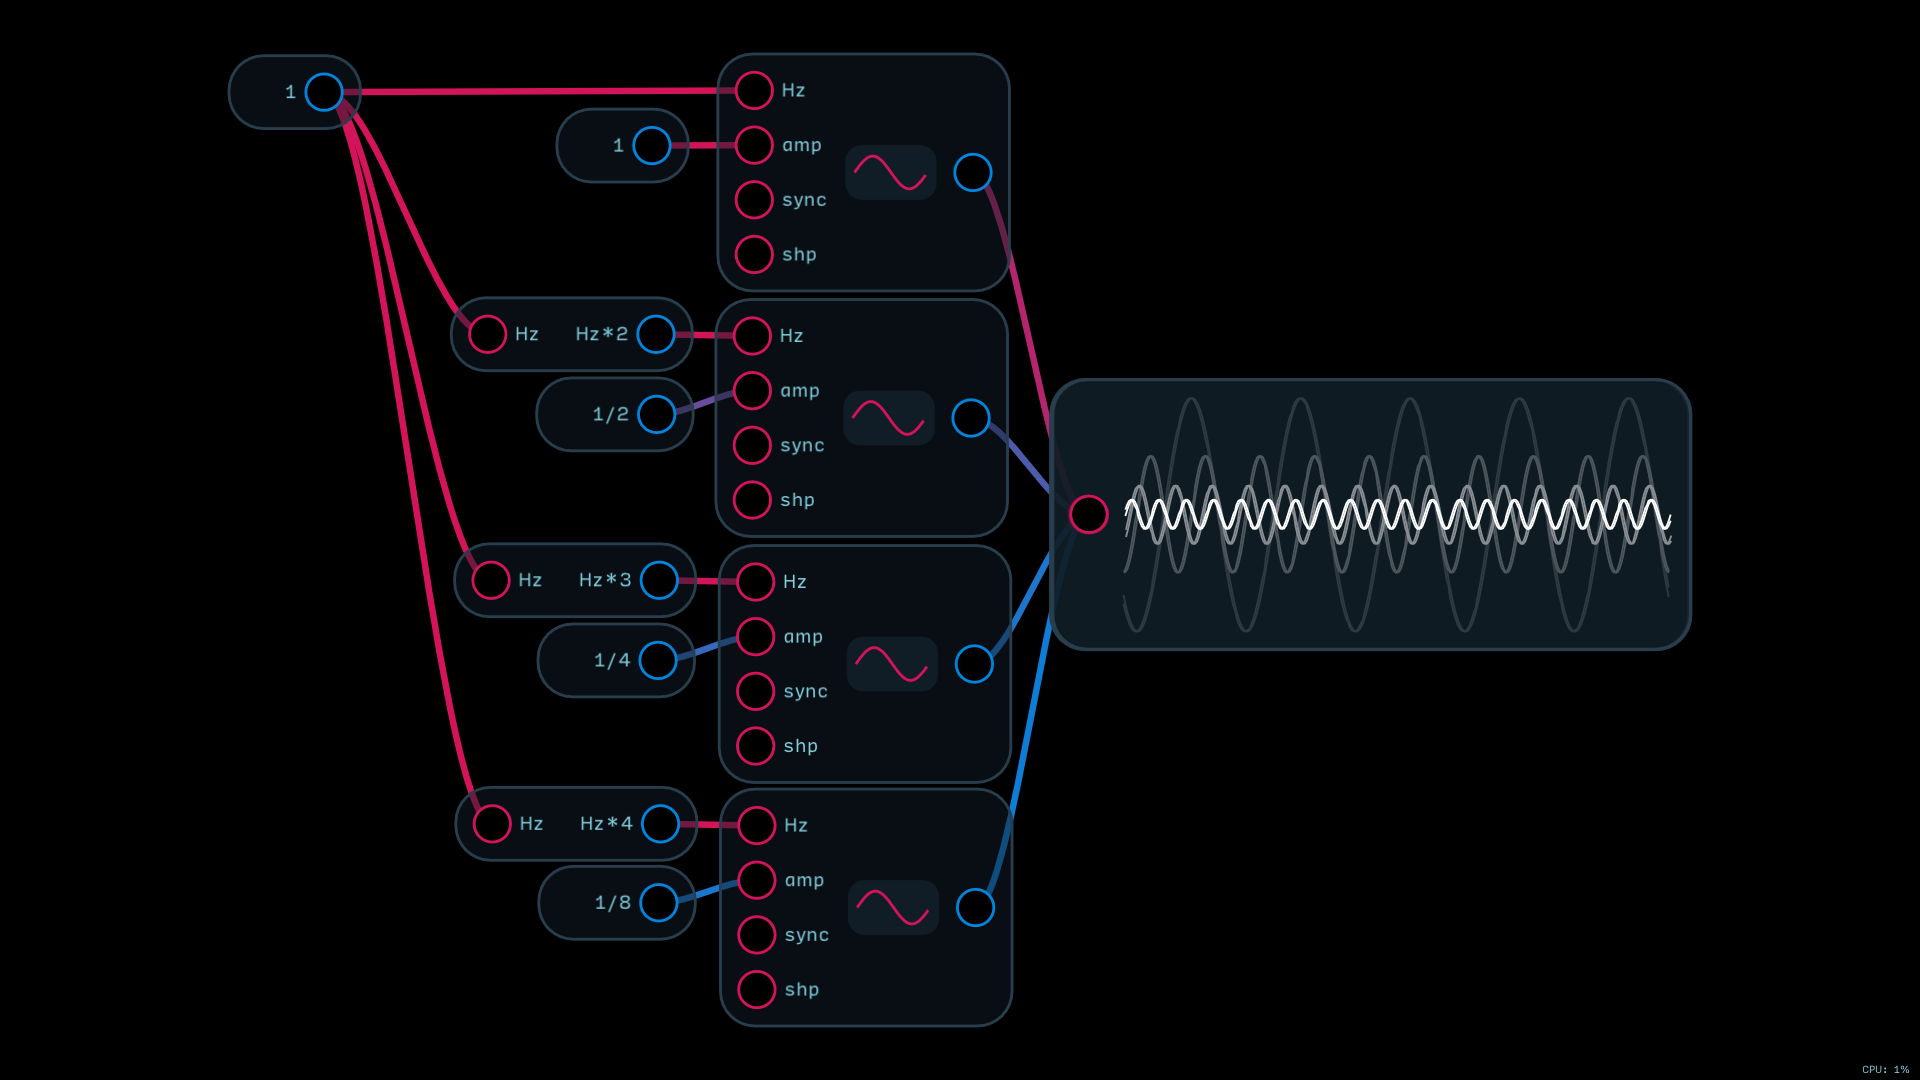
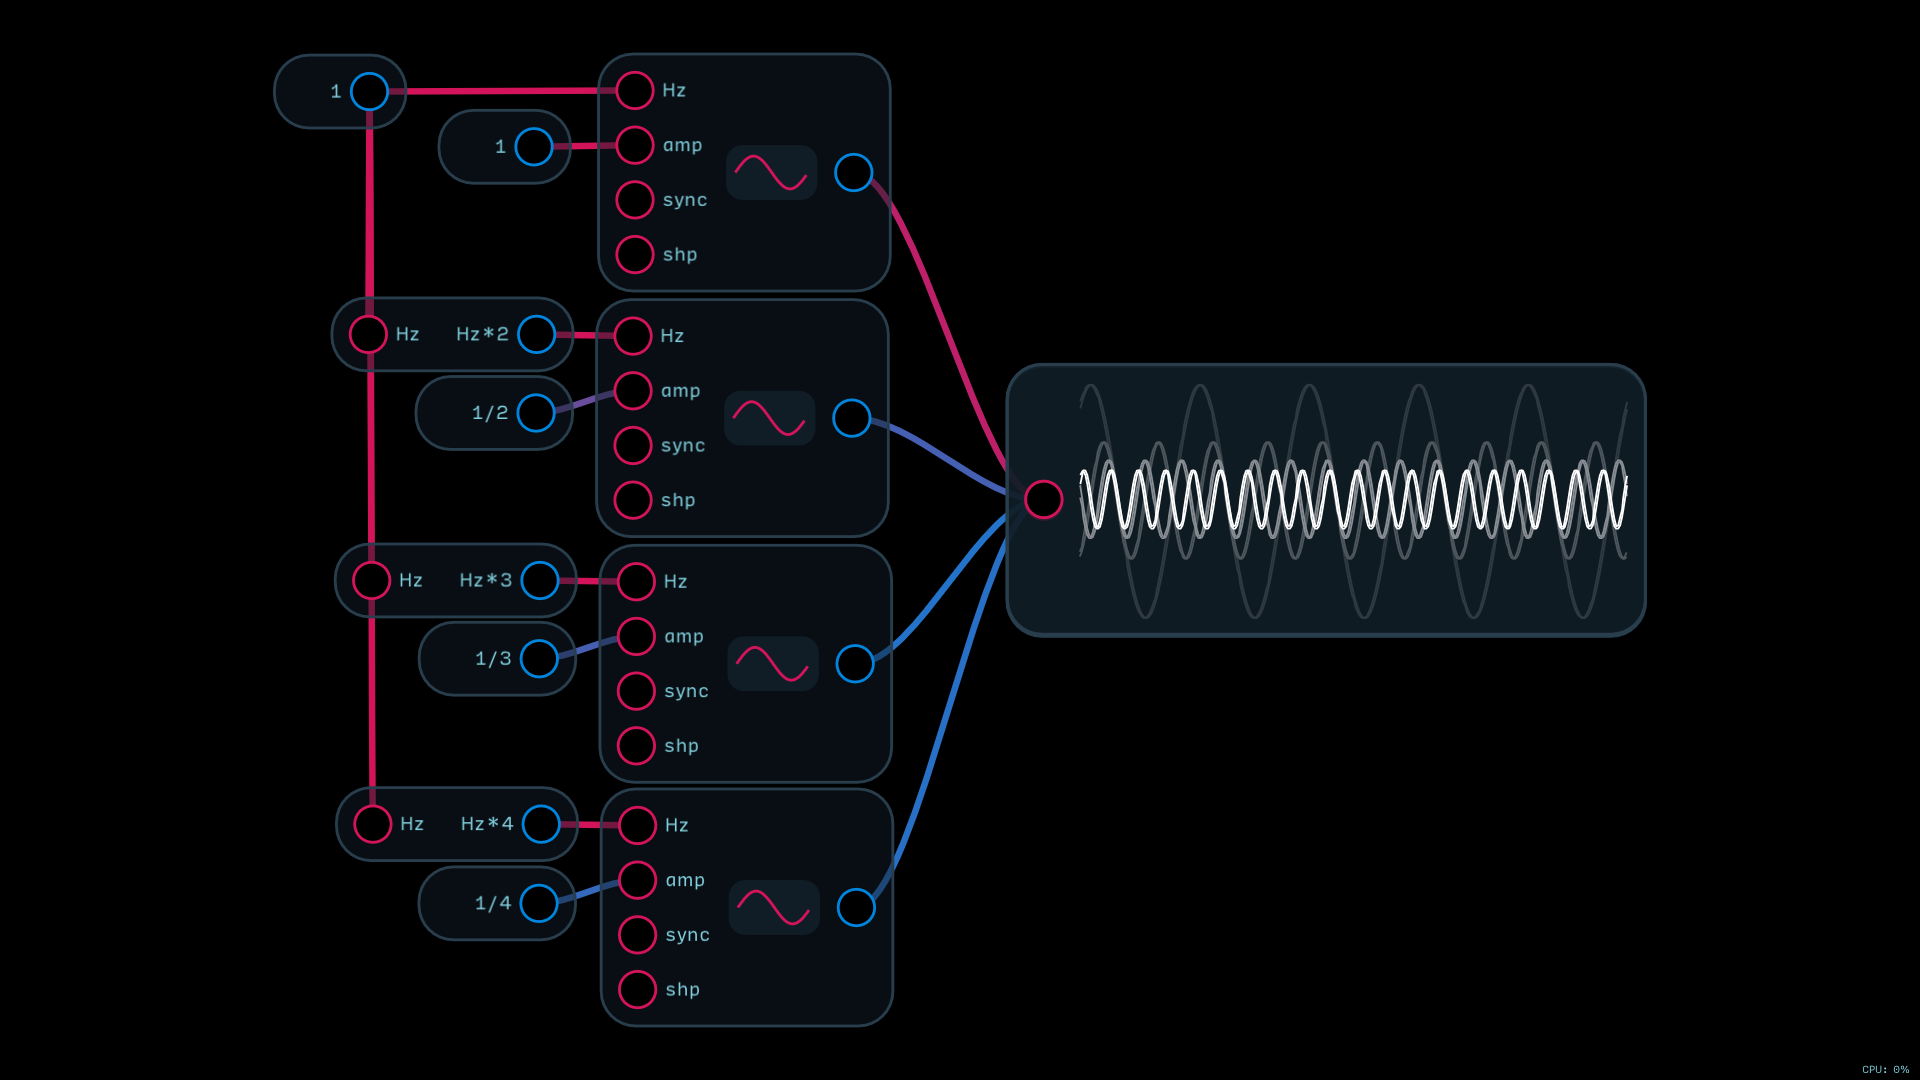
Edited Osc section more - added stuff on harmonics

diff --git a/nodes.md b/nodes.md
@@ -217,14 +217,23 @@ If we take as our base a note that vibrates at 440Hz, then its second harmonic w
 
 A sine only has one harmonic (the 1st or fundamental). Saw waves contain all harmonics, while triangle and square waves have only odd-order harmonics (3rd, 5th, 7th, ...etc.).
 
+The ratio of the amplitude of each harmonic is 1/N where N = the harmonic number. This means the amplitude of the 1st harmonic is 1/1; the 2nd is 1/2; the 3rd is 1/3; the 4th is 1/4; ...etc. (see below).
+
+![Node](img/nodes/OSC/Osc-Integral-Harmonics.png)  
+
 Download the patch pictured below from the Audulus Forum to see and listen to the first six harmonics of a saw wave.
 
 ![Node](img/nodes/OSC/Osc-Saw-Harmonics.png)  
 
+Adding sine wave harmonics together like this is called additive synthesis. You can make all sorts of complex sounds by varying the amplitude of each harmonic or even applying different volume envelopes to each oscillator.
 
+A simpler place to start, however - now that we know what harmonics are and what they sound like - is subtractive synthesis.
 
+Subtractive synthesis is a technique that starts with a harmonically rich waveform, like a saw or square wave, and uses a filter to attenuate or subtract frequencies.
 
+Subtractive synthesis is covered in more depth under the Filter node heading, but you can look below to see the basic setup of a subtractive synthesizer. You can also download this patch at the Audulus Forum.
 
+![Node](img/nodes/OSC/Osc-Subtractive-Synth.png)  
 
 
 
